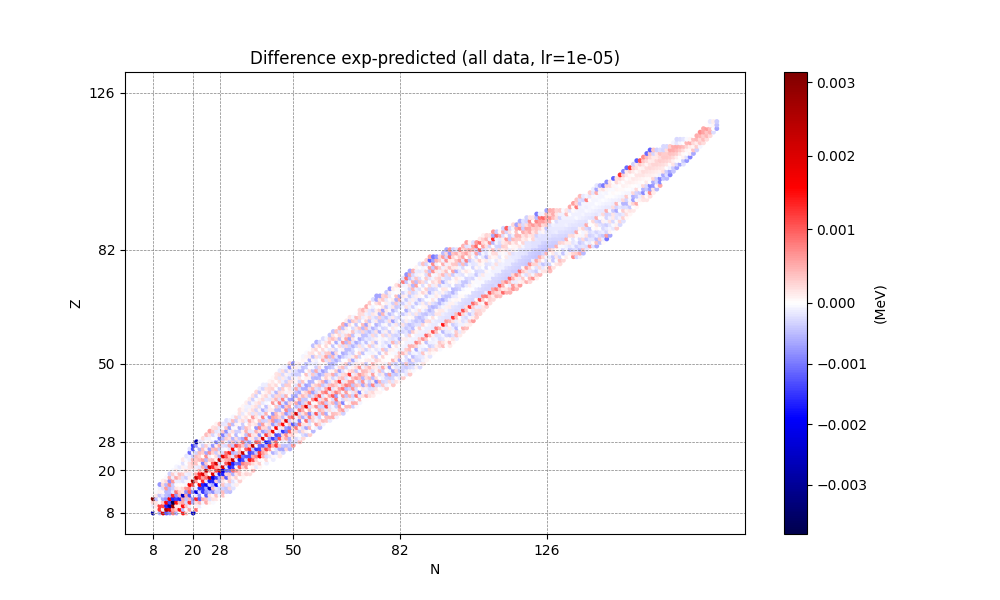
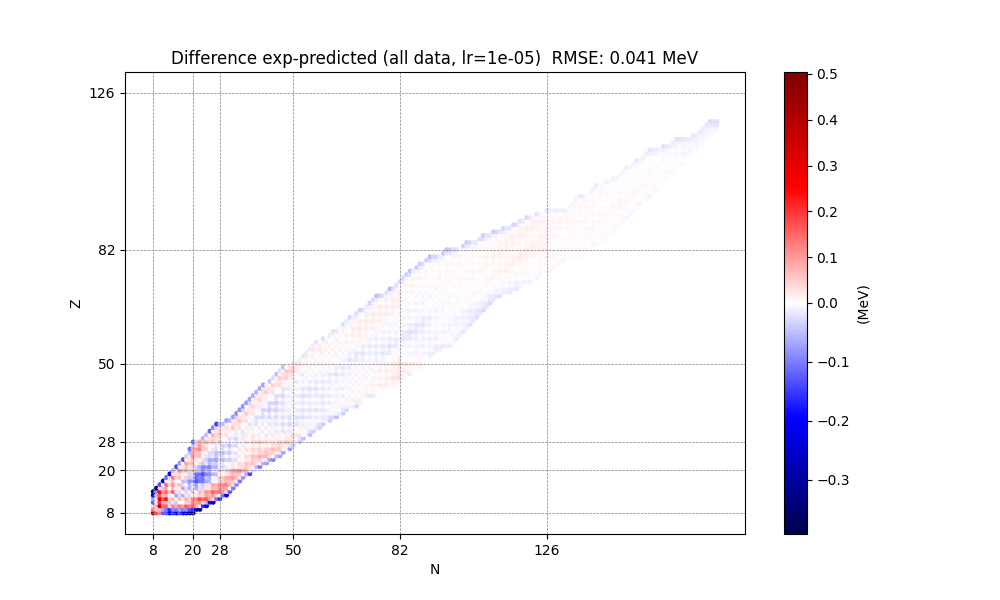
Plots closed + Ranges in plots fixed

diff --git a/CNN-I3.py b/CNN-I3.py
@@ -181,11 +181,12 @@ def plot_differences(data, inputs, targets, indices, model, device, title, file_
     if 'color_limits' not in color_limits_storage:
         vmin = scatter_data['diff'].min()
         vmax = scatter_data['diff'].max()
-        color_limits_storage['color_limits'] = (vmin, vmax)
+        vcenter = 0 if vmin < 0 and vmax > 0 else (vmin + vmax) / 2
+        color_limits_storage['color_limits'] = (vmin, vcenter, vmax)
     else:
-        vmin, vmax = color_limits_storage['color_limits']
+        vmin, vcenter, vmax = color_limits_storage['color_limits']
 
-    norm = TwoSlopeNorm(vmin=vmin, vcenter=0, vmax=vmax)
+    norm = TwoSlopeNorm(vmin=vmin, vcenter=vcenter, vmax=vmax)
     scatter = plt.scatter(scatter_data['N'], scatter_data['Z'], c=scatter_data['diff'],
                           cmap='seismic', norm=norm, edgecolor='None', s=12)
     cbar = plt.colorbar(scatter)
@@ -200,6 +201,7 @@ def plot_differences(data, inputs, targets, indices, model, device, title, file_
     plt.ylabel('Z')
     plt.title(f"{title}  RMSE: {best_test_rmse:.3f} MeV")
     plt.savefig(file_name)
+    plt.close()
     return
 
 
@@ -212,12 +214,14 @@ def plot_differences_nuclear_masses(data, inputs, targets, indices, model, devic
     model.eval() 
     with torch.no_grad():
         outputs = model(inputs.to(device)).cpu().numpy().flatten()
-        outputs = data['Z'].iloc[indices]*m_H + data['N'].iloc[indices]*m_n - outputs
-        outputs = outputs - data['Z'].iloc[indices]*m_e + data['B_e'].iloc[indices]
+        outputs = outputs*data['A'].iloc[indices]
+        outputs = data['Z'].iloc[indices]*m_H + data['N'].iloc[indices]*m_n - outputs # Calculating atomic masses
+        outputs = outputs - data['Z'].iloc[indices]*m_e + data['B_e'].iloc[indices] # Calculating nuclear masses
 
         targets_np = targets.cpu().numpy().flatten()
-        targets_np = data['Z'].iloc[indices]*m_H + data['N'].iloc[indices]*m_n - targets_np
-        targets_np = targets_np - data['Z'].iloc[indices]*m_e + data['B_e'].iloc[indices]
+        targets_np = targets_np*data['A'].iloc[indices]
+        targets_np = data['Z'].iloc[indices]*m_H + data['N'].iloc[indices]*m_n - targets_np # Calculating atomic masses
+        targets_np = targets_np - data['Z'].iloc[indices]*m_e + data['B_e'].iloc[indices] # Calculating nuclear masses
 
         diff = targets_np - outputs
 
@@ -230,12 +234,13 @@ def plot_differences_nuclear_masses(data, inputs, targets, indices, model, devic
 
     if 'color_limits' not in color_limits_storage:
         vmin = scatter_data['diff'].min()
+        vcenter = 0 if vmin < 0 and vmax > 0 else (vmin + vmax) / 2
         vmax = scatter_data['diff'].max()
-        color_limits_storage['color_limits'] = (vmin, vmax)
+        color_limits_storage['color_limits'] = (vmin, vcenter, vmax)
     else:
-        vmin, vmax = color_limits_storage['color_limits']
+        vmin, vcenter, vmax = color_limits_storage['color_limits']
 
-    norm = TwoSlopeNorm(vmin=vmin, vcenter=0, vmax=vmax)
+    norm = TwoSlopeNorm(vmin=vmin, vcenter=vcenter, vmax=vmax)
     scatter = plt.scatter(scatter_data['N'], scatter_data['Z'], c=scatter_data['diff'],
                           cmap='seismic', norm=norm, edgecolor='None', s=12)
     cbar = plt.colorbar(scatter)
@@ -250,6 +255,7 @@ def plot_differences_nuclear_masses(data, inputs, targets, indices, model, devic
     plt.ylabel('Z')
     plt.title(f"{title}  RMSE: {best_test_rmse:.3f} MeV")
     plt.savefig(file_name)
+    plt.close()
     return
 
 
@@ -270,6 +276,7 @@ plt.ylim(0, max_value)
 plt.legend()
 plt.grid()
 plt.savefig(f'CNN-I3 results/CNN-I3_evolution.png')
+plt.close()
 
 color_limits_storage = {}
 plot_differences(data, inputs_tensor, targets_tensor, range(len(data)), model, device,
@@ -309,6 +316,7 @@ for lr in learning_rates:
     plt.legend()
     plt.grid()
     plt.savefig(f'CNN-I3 results/CNN-I3_evolution.png')
+    plt.close()
     
     color_limits_storage = {}
     plot_differences(data, inputs_tensor, targets_tensor, range(len(data)), model, device,

diff --git a/CNN-I4.py b/CNN-I4.py
@@ -184,11 +184,12 @@ def plot_differences(data, inputs, targets, indices, model, device, title, file_
     if 'color_limits' not in color_limits_storage:
         vmin = scatter_data['diff'].min()
         vmax = scatter_data['diff'].max()
-        color_limits_storage['color_limits'] = (vmin, vmax)
+        vcenter = 0 if vmin < 0 and vmax > 0 else (vmin + vmax) / 2
+        color_limits_storage['color_limits'] = (vmin, vcenter, vmax)
     else:
-        vmin, vmax = color_limits_storage['color_limits']
+        vmin, vcenter, vmax = color_limits_storage['color_limits']
 
-    norm = TwoSlopeNorm(vmin=vmin, vcenter=0, vmax=vmax)
+    norm = TwoSlopeNorm(vmin=vmin, vcenter=vcenter, vmax=vmax)
     scatter = plt.scatter(scatter_data['N'], scatter_data['Z'], c=scatter_data['diff'],
                           cmap='seismic', norm=norm, edgecolor='None', s=12)
     cbar = plt.colorbar(scatter)
@@ -203,6 +204,7 @@ def plot_differences(data, inputs, targets, indices, model, device, title, file_
     plt.ylabel('Z')
     plt.title(f"{title}  RMSE: {best_test_rmse:.3f} MeV")
     plt.savefig(file_name)
+    plt.close()
     return
 
 
@@ -215,12 +217,12 @@ def plot_differences_nuclear_masses(data, inputs, targets, indices, model, devic
     model.eval() 
     with torch.no_grad():
         outputs = model(inputs.to(device)).cpu().numpy().flatten()
-        outputs = data['Z'].iloc[indices]*m_H + data['N'].iloc[indices]*m_n - outputs
-        outputs = outputs - data['Z'].iloc[indices]*m_e + data['B_e'].iloc[indices]
+        outputs = data['Z'].iloc[indices]*m_H + data['N'].iloc[indices]*m_n - outputs # Calculating atomic masses
+        outputs = outputs - data['Z'].iloc[indices]*m_e + data['B_e'].iloc[indices] # Calculating nuclear masses
 
         targets_np = targets.cpu().numpy().flatten()
-        targets_np = data['Z'].iloc[indices]*m_H + data['N'].iloc[indices]*m_n - targets_np
-        targets_np = targets_np - data['Z'].iloc[indices]*m_e + data['B_e'].iloc[indices]
+        targets_np = data['Z'].iloc[indices]*m_H + data['N'].iloc[indices]*m_n - targets_np # Calculating atomic masses
+        targets_np = targets_np - data['Z'].iloc[indices]*m_e + data['B_e'].iloc[indices] # Calculating nuclear masses
 
         diff = targets_np - outputs
 
@@ -233,12 +235,13 @@ def plot_differences_nuclear_masses(data, inputs, targets, indices, model, devic
 
     if 'color_limits' not in color_limits_storage:
         vmin = scatter_data['diff'].min()
+        vcenter = 0 if vmin < 0 and vmax > 0 else (vmin + vmax) / 2
         vmax = scatter_data['diff'].max()
-        color_limits_storage['color_limits'] = (vmin, vmax)
+        color_limits_storage['color_limits'] = (vmin, vcenter, vmax)
     else:
-        vmin, vmax = color_limits_storage['color_limits']
+        vmin, vcenter, vmax = color_limits_storage['color_limits']
 
-    norm = TwoSlopeNorm(vmin=vmin, vcenter=0, vmax=vmax)
+    norm = TwoSlopeNorm(vmin=vmin, vcenter=vcenter, vmax=vmax)
     scatter = plt.scatter(scatter_data['N'], scatter_data['Z'], c=scatter_data['diff'],
                           cmap='seismic', norm=norm, edgecolor='None', s=12)
     cbar = plt.colorbar(scatter)
@@ -253,6 +256,7 @@ def plot_differences_nuclear_masses(data, inputs, targets, indices, model, devic
     plt.ylabel('Z')
     plt.title(f"{title}  RMSE: {best_test_rmse:.3f} MeV")
     plt.savefig(file_name)
+    plt.close()
     return
 
 
@@ -273,6 +277,7 @@ plt.ylim(0, max_value)
 plt.legend()
 plt.grid()
 plt.savefig(f'CNN-I4 results/CNN-I4_evolution.png')
+plt.close()
 
 color_limits_storage = {}
 plot_differences(data, inputs_tensor, targets_tensor, range(len(data)), model, device,
@@ -312,6 +317,7 @@ for lr in learning_rates:
     plt.legend()
     plt.grid()
     plt.savefig(f'CNN-I4 results/CNN-I4_evolution.png')
+    plt.close()
     
     color_limits_storage = {}
     plot_differences(data, inputs_tensor, targets_tensor, range(len(data)), model, device,

diff --git a/data_processing.py b/data_processing.py
@@ -144,6 +144,7 @@ def plot_data(df, df_column, title, colorbar_label, filename, folder, cmap, vmin
     plt.ylabel('Z') 
     plt.title(title)
     plt.savefig(os.path.join(folder, filename))
+    plt.close()
 
 
 #Plot of the theoretical binding energy per nucleon as a function of Z and N
@@ -202,6 +203,7 @@ plt.title('3D Difference exp-teo binding energy per nucleon AME2016 ')
 cbar = plt.colorbar(scatter, ax=ax)
 cbar.set_label('(MeV)')
 plt.savefig(os.path.join(data_processing_plots, 'bind_teoexp_dif_3D_per_nucleon.png'))
+plt.close()
 
 
 #Nuclear shell gaps (\Delta_{2n} and \Delta_{2p})
@@ -234,6 +236,7 @@ def plot_shell_gaps(df, gap_col, type, title, filename, data_processing_plots, v
     plt.ylabel('Z')
     plt.title("{} {}".format(title, type))
     plt.savefig(os.path.join(data_processing_plots, filename))
+    plt.close()
 
 df2016 = calculate_shell_gaps(df2016, 'n', 'Z', 'exp', 'bind_ene_total', 2016) 
 df2016 = calculate_shell_gaps(df2016, 'p', 'N', 'exp', 'bind_ene_total', 2016) 
